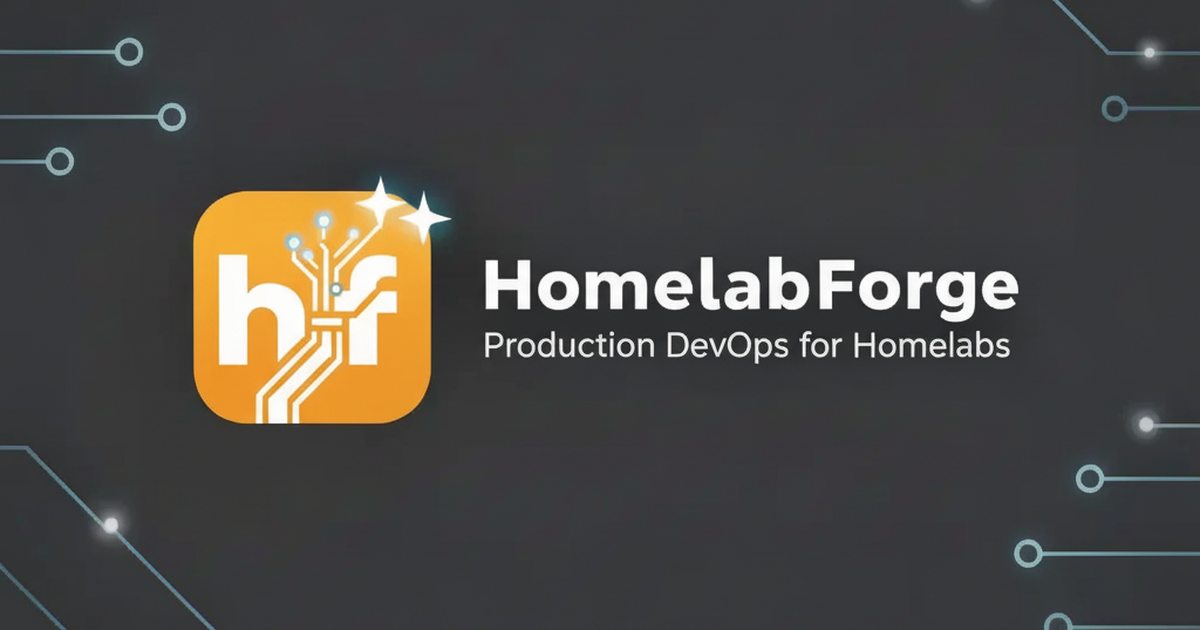
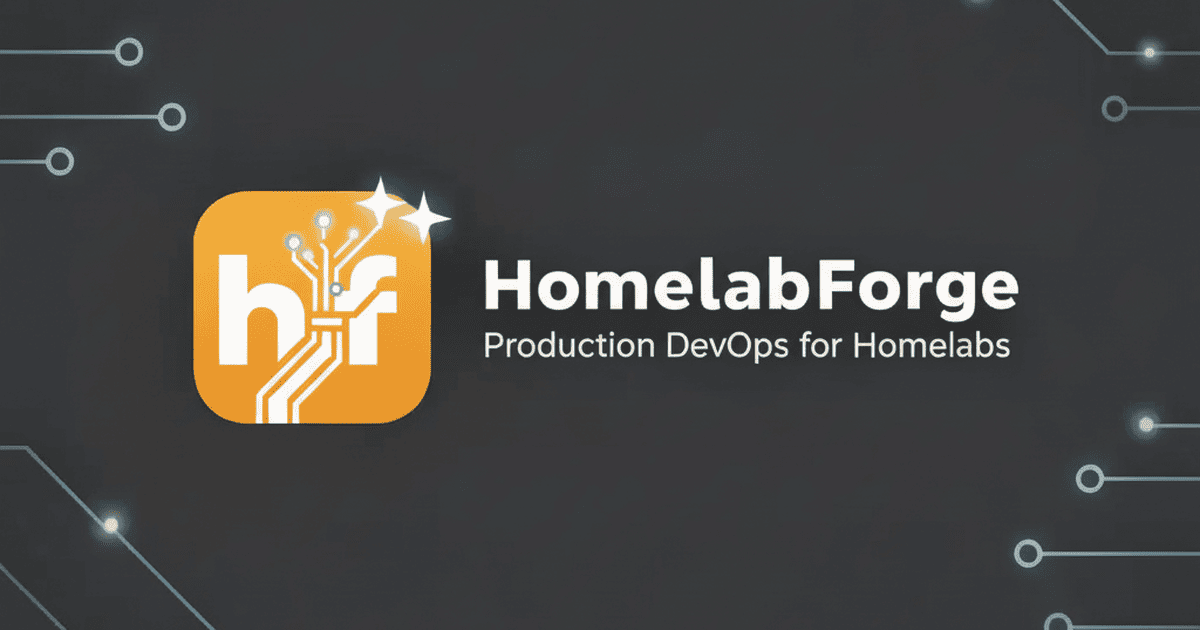
chore: pending working-tree cleanup (pre-existing WIP)
Baseline commit of uncommitted changes already present before the quality
pass: _headers removal (no-op on GitHub Pages; headers served by Cloudflare),
og-image re-optimization, security.txt cleanup, book-page.js simplification,
offline.html noindex, build.js gif-plugin removal, sitemap/ci tweaks.

Changed region(s): [[0.2158, 0.3016, 0.37, 0.6032]]

diff --git a/books/advanced-pam-course.html b/books/advanced-pam-course.html
@@ -3,6 +3,9 @@
 <head>
     <meta charset="UTF-8">
     <meta name="viewport" content="width=device-width, initial-scale=1.0">
+    <meta name="theme-color" content="#FF9900" media="(prefers-color-scheme: light)">
+    <meta name="theme-color" content="#0D1117" media="(prefers-color-scheme: dark)">
+    <meta name="color-scheme" content="light dark">
 
     <!-- Primary Meta Tags -->
     <title>Advanced PAM Course for Linux | Enterprise Authentication Guide</title>
@@ -10,7 +13,7 @@
     <meta name="description" content="Master Linux PAM authentication with 15+ hands-on labs. Covers U2F/FIDO2, YubiKey, Active Directory, SSSD, and Ansible automation. 202 pages, 3 languages available.">
     <meta name="keywords" content="PAM, Linux authentication, YubiKey, U2F, FIDO2, Active Directory, SSSD, Ansible, security, sysadmin, Linux security book, PAM tutorial, enterprise authentication">
     <meta name="author" content="Miguel Alpañez">
-    <meta name="robots" content="noindex, nofollow">
+    <meta name="robots" content="index, follow">
     <meta name="language" content="English">
 
     <!-- Open Graph / Facebook -->
@@ -22,8 +25,7 @@
     <meta property="og:image:width" content="1200">
     <meta property="og:image:height" content="630">
     <meta property="book:author" content="Miguel Alpañez Alcalde">
-    <meta property="book:isbn" content="">
-    <meta property="book:release_date" content="2026-03-01">
+    <meta property="book:release_date" content="2026-09-01">
 
     <!-- Twitter -->
     <meta name="twitter:card" content="summary_large_image">
@@ -42,6 +44,9 @@
     <link rel="icon" type="image/png" sizes="16x16" href="/assets/icons/favicon-16x16.png">
     <link rel="icon" type="image/png" sizes="64x64" href="/assets/icons/favicon-64x64.png">
     <link rel="apple-touch-icon" sizes="180x180" href="/assets/icons/apple-touch-icon.png">
+
+    <!-- PWA Manifest -->
+    <link rel="manifest" href="/manifest.json">
 
     <!-- Preconnect -->
     <link rel="preconnect" href="https://amazon.com" crossorigin>
@@ -95,12 +100,12 @@
             </div>
 
             <div class="cta-buttons">
-                <a href="https://tally.so/r/eqqYzO" class="btn btn-primary" target="_blank" rel="noopener">Join Waitlist - Get Notified</a>
+                <a href="https://tally.so/r/eqqYzO" class="btn btn-primary" target="_blank" rel="noopener noreferrer">Join Waitlist - Get Notified</a>
                 <a href="#sample" class="btn btn-secondary">Free Resources</a>
             </div>
 
             <p class="text-center text-secondary mt-20 fs-095">
-                📅 Expected release: March 2026 | Available on Amazon KDP &amp; LeanPub
+                📅 Expected release: September 2026 | Available on Amazon KDP &amp; LeanPub
             </p>
         </section>
 
@@ -245,22 +250,22 @@
                 <div class="feature-card text-center">
                     <div class="feature-icon">📄</div>
                     <h3 class="feature-title">Sample Chapter</h3>
-                    <p class="mb-20">Download Chapter 3: "Account Lockout with pam_faillock" (25 pages)</p>
-                    <a href="/assets/books/pam-course/sample-chapter.pdf" class="btn btn-secondary fs-09">Download PDF</a>
+                    <p class="mb-20">Chapter 3: "Account Lockout with pam_faillock" (25 pages) — available at launch</p>
+                    <a href="#buy" class="btn btn-secondary fs-09">Coming Soon — Join Waitlist</a>
                 </div>
 
                 <div class="feature-card text-center">
                     <div class="feature-icon">📋</div>
                     <h3 class="feature-title">PAM Cheatsheet</h3>
-                    <p class="mb-20">Quick reference guide for common PAM modules and configurations</p>
-                    <a href="/assets/books/pam-course/cheatsheet.pdf" class="btn btn-secondary fs-09">Download PDF</a>
+                    <p class="mb-20">Quick reference guide for common PAM modules and configurations — available at launch</p>
+                    <a href="#buy" class="btn btn-secondary fs-09">Coming Soon — Join Waitlist</a>
                 </div>
 
                 <div class="feature-card text-center">
                     <div class="feature-icon">🤖</div>
                     <h3 class="feature-title">Ansible Collection</h3>
                     <p class="mb-20">Production-ready Ansible roles for PAM hardening (coming soon)</p>
-                    <a href="https://github.com/malpanez/security" class="btn btn-secondary fs-09" target="_blank" rel="noopener">View on GitHub</a>
+                    <a href="https://github.com/malpanez/security" class="btn btn-secondary fs-09" target="_blank" rel="noopener noreferrer">View on GitHub</a>
                 </div>
             </div>
         </section>
@@ -280,7 +285,7 @@
                         when it's available for purchase.
                     </p>
 
-                    <a href="https://tally.so/r/eqqYzO" class="btn btn-primary btn-large" target="_blank" rel="noopener">
+                    <a href="https://tally.so/r/eqqYzO" class="btn btn-primary btn-large" target="_blank" rel="noopener noreferrer">
                         Join Waitlist
                     </a>
 
@@ -296,14 +301,14 @@
                     </div>
 
                     <p class="mt-30 fs-09 text-secondary">
-                        📅 Expected release: <strong>March 2026</strong><br>
+                        📅 Expected release: <strong>September 2026</strong><br>
                         📍 Available on: Amazon KDP (Kindle/Paperback) &amp; LeanPub (DRM-Free PDF/EPUB)
                     </p>
                 </div>
             </div>
 
             <p class="mt-40 fs-095">
-                📖 While you wait, check out the free resources below
+                📖 While you wait, check out the free resources above
             </p>
         </section>
 
@@ -332,8 +337,8 @@
                 </ul>
 
                 <div class="mt-30">
-                    <a href="https://github.com/malpanez" target="_blank" rel="noopener" class="text-accent mx-15">GitHub</a>
-                    <a href="https://www.linkedin.com/in/miguel-alpañez/" target="_blank" rel="noopener" class="text-accent mx-15">LinkedIn</a>
+                    <a href="https://github.com/malpanez" target="_blank" rel="noopener noreferrer" class="text-accent mx-15">GitHub</a>
+                    <a href="https://www.linkedin.com/in/miguel-alpañez/" target="_blank" rel="noopener noreferrer" class="text-accent mx-15">LinkedIn</a>
                     <a href="https://homelabforge.dev" class="text-accent mx-15">Website</a>
                 </div>
             </div>
@@ -385,7 +390,7 @@
                 📧 Questions? <a href="mailto:miguel@homelabforge.dev" class="text-accent">miguel@homelabforge.dev</a>
             </p>
             <p class="mt-15 fs-09">
-                &copy; 2025 Miguel Alpañez. All rights reserved.
+                &copy; 2026 Miguel Alpañez. All rights reserved.
             </p>
         </footer>
     </div>

diff --git a/scripts/build.js b/scripts/build.js
@@ -8,7 +8,6 @@ import path from 'node:path';
 import postcss from 'postcss';
 import autoprefixer from 'autoprefixer';
 import imagemin from 'imagemin';
-import imageminGifsicle from 'imagemin-gifsicle';
 import imageminMozjpeg from 'imagemin-mozjpeg';
 import imageminPngquant from 'imagemin-pngquant';
 import imageminSvgo from 'imagemin-svgo';
@@ -42,7 +41,6 @@ const JS_MINIFY_OPTIONS = {
 };
 
 const IMAGE_PLUGINS = [
-  imageminGifsicle(),
   imageminMozjpeg({ quality: 80 }),
   imageminPngquant({ quality: [0.6, 0.8] }),
   imageminSvgo(),
@@ -52,7 +50,6 @@ const WEBP_PLUGINS = [imageminWebp({ quality: 80 })];
 
 const ROOT_FILES = [
   'sw.js',
-  '_headers',
   'CNAME',
   'robots.txt',
   'sitemap.xml',
@@ -60,6 +57,7 @@ const ROOT_FILES = [
   'og-image.png',
   'LICENSE',
   '.nojekyll',
+  '.well-known',
 ];
 
 const ASSET_FOLDERS = ['assets/icons']; // books and img are handled by imagemin
@@ -183,11 +181,11 @@ async function bundleAndMinifyJs() {
 
 async function optimizeImages() {
   console.log('Optimizing and copying images...');
-  await imagemin(['assets/img/**/*.{jpg,jpeg,png,gif,svg}'], {
+  await imagemin(['assets/img/**/*.{jpg,jpeg,png,svg}'], {
     destination: 'dist/assets/img',
     plugins: IMAGE_PLUGINS,
   });
-  await imagemin(['assets/books/**/*.{jpg,jpeg,png,gif,svg}'], {
+  await imagemin(['assets/books/**/*.{jpg,jpeg,png,svg}'], {
     destination: 'dist/assets/books',
     plugins: IMAGE_PLUGINS,
   });

diff --git a/assets/js/book-page.js b/assets/js/book-page.js
@@ -1,22 +1,6 @@
-// Auto-highlight buy button based on browser language
-(function() {
-    const userLang = navigator.language.split('-')[0];
-    const langButtons = {
-        'es': document.querySelector('[data-lang="es"]'),
-        'en': document.querySelector('[data-lang="en"]'),
-        'pt': document.querySelector('[data-lang="pt"]')
-    };
-
-    if (langButtons[userLang]) {
-        langButtons[userLang].style.background = '#ffb366';
-        const label = document.createElement('span');
-        label.textContent = ' (Recommended)';
-        langButtons[userLang].appendChild(label);
-    }
-
-    // Update copyright year
-    const yearSpan = document.querySelector('footer p:last-child');
-    if (yearSpan) {
-        yearSpan.textContent = yearSpan.textContent.replace('2025', new Date().getFullYear());
+(function () {
+    const yearEl = document.querySelector('footer p:last-child');
+    if (yearEl) {
+        yearEl.textContent = yearEl.textContent.replace(/\b20\d{2}\b/, new Date().getFullYear());
     }
 })();

diff --git a/index.html b/index.html
@@ -66,7 +66,7 @@
     </style>
 
     <!-- Main stylesheet (render-blocking to avoid FOUC/CLS) -->
-    <link rel="stylesheet" href="/assets/css/styles.min.css" media="all">
+    <link rel="stylesheet" href="/assets/css/styles.min.css">
 
     <!-- Schema.org Structured Data for SEO -->
     <script type="application/ld+json">

diff --git a/offline.html b/offline.html
@@ -3,6 +3,8 @@
 <head>
     <meta charset="UTF-8">
     <meta name="viewport" content="width=device-width, initial-scale=1.0">
+    <meta name="robots" content="noindex">
+    <meta name="theme-color" content="#121212">
     <title>Offline | HomelabForge</title>
     <style>
         body {

diff --git a/README.md b/README.md
@@ -221,6 +221,14 @@ git push origin main
 
 GitHub Pages will deploy automatically within 1-2 minutes.
 
+### Security Headers
+
+HTTP security headers (CSP, HSTS, Permissions-Policy, etc.) are **not** set in this
+repository. GitHub Pages cannot serve custom headers, so they are applied at the
+Cloudflare edge via a Terraform-managed ruleset in a separate IaC repo. When you add a
+new external origin to the site (script, iframe, image, analytics), update the
+Content-Security-Policy in that ruleset accordingly.
+
 ______________________________________________________________________
 
 ## Contributing
